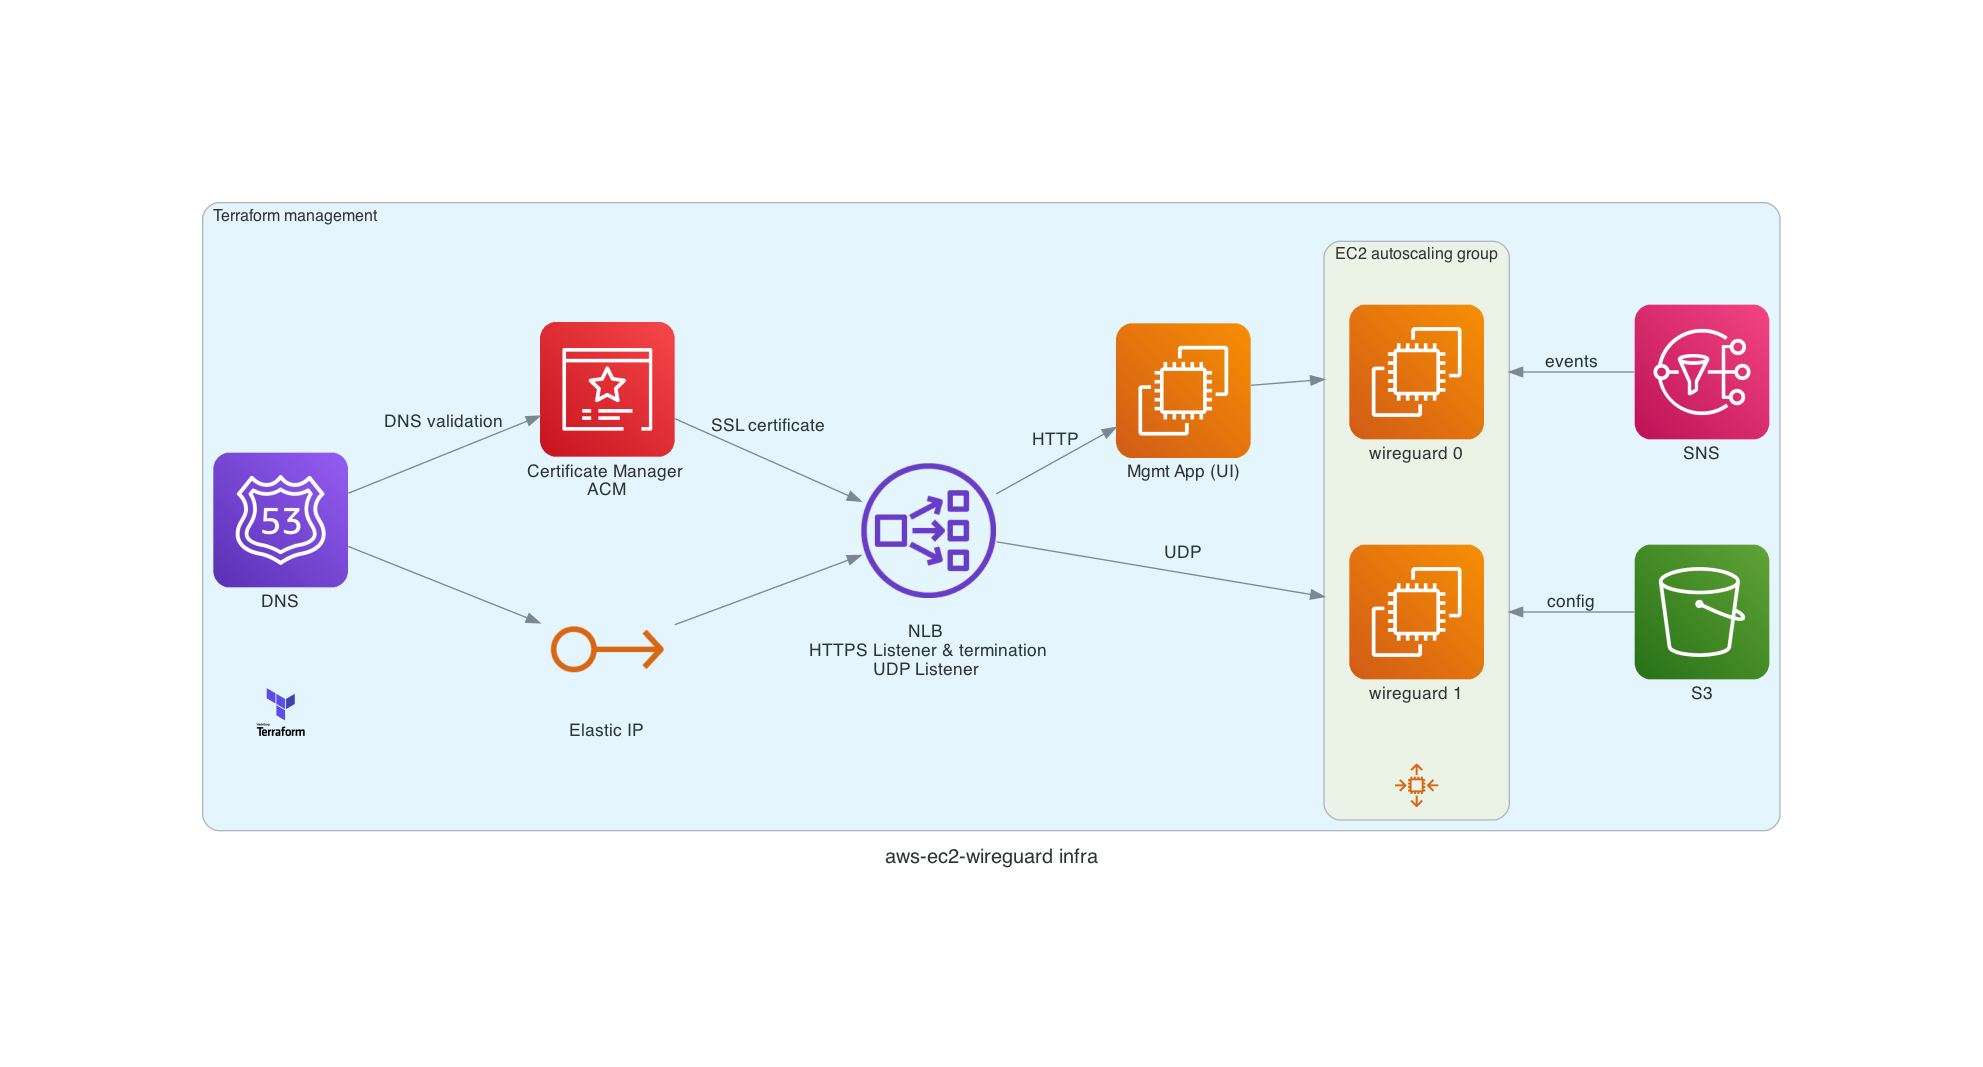
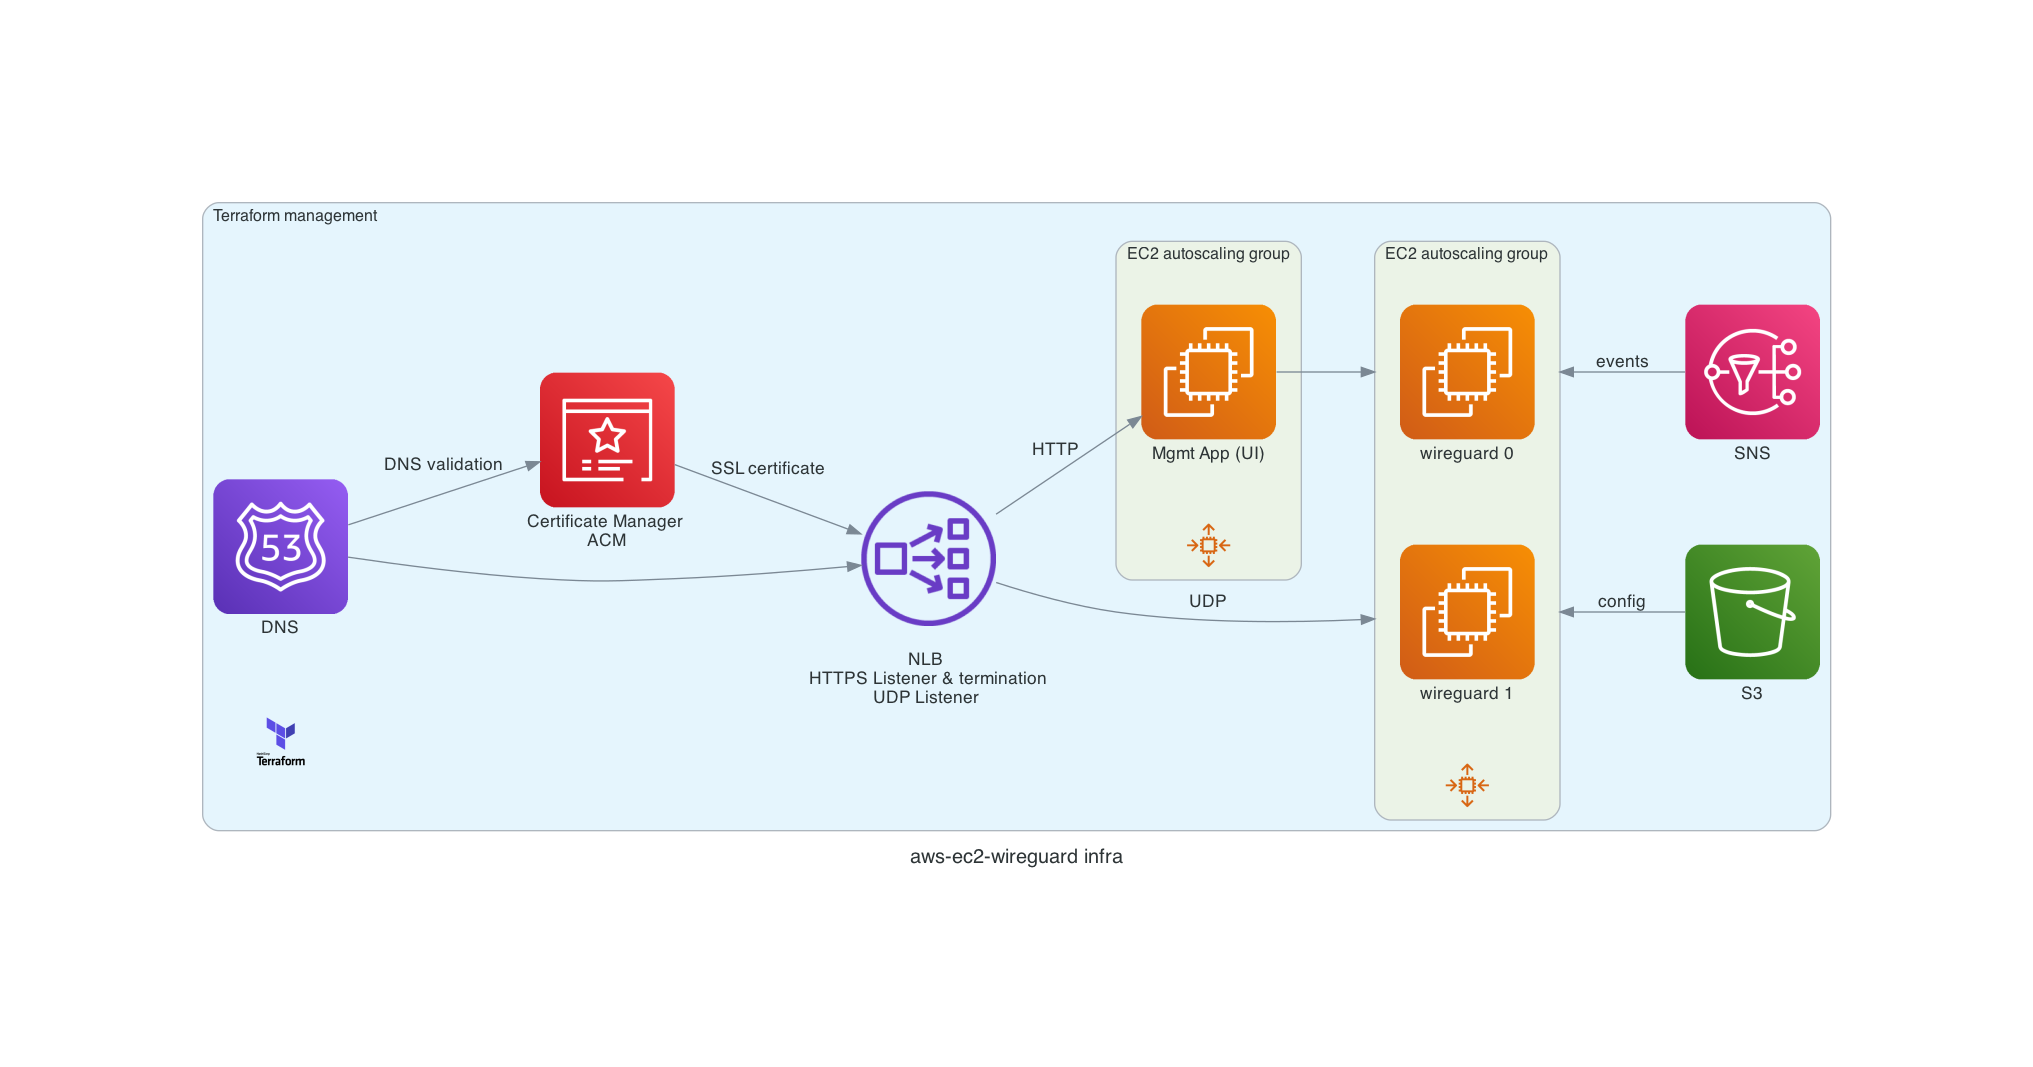
update sns and add sqs schema to compare

diff --git a/docs/arcitecture.py b/docs/arcitecture.py
@@ -5,11 +5,11 @@ from diagrams.aws.network import NLB, Route53
 from diagrams.onprem.iac import Terraform
 from diagrams.onprem.client import Users
 from diagrams.aws.storage import S3
-from diagrams.aws.integration import SNS, SimpleNotificationServiceSnsTopic
+from diagrams.aws.integration import SNS, SimpleNotificationServiceSnsTopic, SQS, SimpleQueueServiceSqsQueue
 from diagrams.programming.language import Python
 from diagrams.custom import Custom
 from diagrams.aws.security import ACM
-
+from diagrams.generic.blank import Blank
 
 graph_attr = {
     "layout":"dot",
@@ -25,23 +25,30 @@ with Diagram("aws-ec2-wireguard infra", show=False, direction="LR", graph_attr=g
 
 
         dns = Route53("DNS")
-        eip = EC2ElasticIpAddress("Elastic IP")
         nlb = NLB("NLB \nHTTPS Listener & termination\nUDP Listener \n")
         acm = ACM("Certificate Manager \nACM")
         config = S3("S3")
         sns = SNS("SNS")
-        front_app = EC2("Mgmt App (UI)")
+
+        with Cluster("ec2_as_web", graph_attr={"label":"EC2 autoscaling group"}):
+            ec2_autoscaling = EC2AutoScaling(
+                    label="", fontsize="8", loc="t",
+                    fixedsize="true", width="0.5", height="0.5", )
+
+            front_app = EC2("Mgmt App (UI)")
+
 
         with Cluster("ec2_as", graph_attr={"label":"EC2 autoscaling group"}):
             ec2_autoscaling = EC2AutoScaling(
                     label="", fontsize="8", loc="t",
                     fixedsize="true", width="0.5", height="0.5", )
+
             wg = [
                 EC2("wireguard 0"),
                 EC2("wireguard 1")
             ]
 
-        dns >> eip >> nlb >> Edge(label="UDP", lhead="cluster_ec2_as") >> wg[1]
+        dns >> nlb >> Edge(label="UDP", lhead="cluster_ec2_as") >> wg[1]
         dns >> Edge(label="DNS validation") >> acm >> Edge(label="SSL certificate") >> nlb
         nlb >> Edge(label="HTTP") >> front_app >> Edge(lhead="cluster_ec2_as") >> wg[0]
         wg[1] << Edge(label="config", ltail="cluster_ec2_as") << config
@@ -50,6 +57,7 @@ with Diagram("aws-ec2-wireguard infra", show=False, direction="LR", graph_attr=g
 
 with Diagram("aws-ec2-wireguard app", show=False, graph_attr=graph_attr):
     config = S3("S3")
+    update = SimpleNotificationServiceSnsTopic("SNS Topic")
 
     with Cluster("wg", graph_attr={"label":"Wireguard instance"}):
         ec2 = EC2(
@@ -57,6 +65,20 @@ with Diagram("aws-ec2-wireguard app", show=False, graph_attr=graph_attr):
                 fixedsize="true", width="0.5", height="0.5", )
         wireguard =  Custom("Wireguard", "./wireguard-icon.png")
         backend_app = Python("BackendApp")
+        
+    with Cluster("wg1", graph_attr={"label":"Wireguard instance 1"}):
+        ec2 = EC2(
+                label="", fontsize="8", loc="t",
+                fixedsize="true", width="0.5", height="0.5", )
+        wireguard_1 =  Custom("Wireguard", "./wireguard-icon.png")
+        backend_app_1 = Python("BackendApp")
+
+    # with Cluster("wgn", graph_attr={"label":"Wireguard instance n"}):
+    #     ec2 = EC2(
+    #             label="", fontsize="8", loc="t",
+    #             fixedsize="true", width="0.5", height="0.5", )
+    #     wireguard_n =  Custom("Wireguard", "./wireguard-icon.png")
+    #     backend_app_n = Python("BackendApp")
 
     with Cluster("ui", graph_attr={"label":"Mgmt App (UI)"}):
         ec2 = EC2(
@@ -64,7 +86,64 @@ with Diagram("aws-ec2-wireguard app", show=False, graph_attr=graph_attr):
                 fixedsize="true", width="0.5", height="0.5", )
         front_app = Python("FrontApp")
 
-    Users() >> Edge(lhead="cluster_ui") >> front_app >> Edge(ltail="cluster_ui", lhead="cluster_wg") >> backend_app >> Edge(label="1. update config") >> config
-    config >> Edge(label="2. fire event") >> SNS("SNS") \
-        >> Edge(label="3. get event") >> backend_app >> \
-            Edge(label="4. config update&reload") >> wireguard
+    Users() >> Edge(lhead="cluster_ui", color="darkgreen") >> front_app \
+        >> Edge(ltail="cluster_ui", lhead="cluster_wg", color="darkgreen") >> backend_app
+
+    backend_app >> Edge(label="1. update config", color="darkgreen") >> config \
+        >> Edge(label="2. fire event", color="darkgreen") >> SNS("SNS") \
+            >> Edge(label="3. pub \ncreate an event", color="darkgreen") >> update \
+                >> Edge(label="4. sub. \nget event", color="darkgreen") >> backend_app \
+                    >> Edge(label="6. config update&reload", color="darkgreen") >> wireguard
+    backend_app << Edge(label="5. read config", color="darkgreen") << config 
+
+
+    backend_app_1 << Edge(label="5. read config", color="darkorange") << config 
+    update >> Edge(label="4. sub. \nget event", color="darkorange") >> backend_app_1 \
+        >> Edge(label="6. config update&reload", color="darkorange") >> wireguard_1
+
+    # backend_app_n << Edge(label="6. read config") << config 
+    # update >> Edge(label="4. sub. \nget event") >> backend_app_n \
+    #     >> Edge(label="5. config update&reload") >> wireguard_n
+
+
+with Diagram("aws-ec2-wireguard app_sqs", show=False, graph_attr=graph_attr):
+    config = S3("S3")
+    app_q = SimpleQueueServiceSqsQueue("SQS queue instance")
+    app_1_q = SimpleQueueServiceSqsQueue("SQS queue instance 1")
+    sqs = SQS("SQS")
+
+    with Cluster("wg", graph_attr={"label":"Wireguard instance"}):
+        ec2 = EC2(
+                label="", fontsize="8", loc="t",
+                fixedsize="true", width="0.5", height="0.5", )
+        wireguard =  Custom("Wireguard", "./wireguard-icon.png")
+        backend_app = Python("BackendApp")
+        
+    with Cluster("wg1", graph_attr={"label":"Wireguard instance 1"}):
+        ec2 = EC2(
+                label="", fontsize="8", loc="t",
+                fixedsize="true", width="0.5", height="0.5", )
+        wireguard_1 =  Custom("Wireguard", "./wireguard-icon.png")
+        backend_app_1 = Python("BackendApp")
+
+    with Cluster("ui", graph_attr={"label":"Mgmt App (UI)"}):
+        ec2 = EC2(
+                label="", fontsize="8", loc="t",
+                fixedsize="true", width="0.5", height="0.5", )
+        front_app = Python("FrontApp")
+
+    Users() >> Edge(lhead="cluster_ui", color="darkgreen") >> front_app \
+        >> Edge(ltail="cluster_ui", lhead="cluster_wg", color="darkgreen") >> backend_app
+
+    backend_app >> Edge(label="1. update config", color="darkgreen") >> config \
+        >> Edge(label="2. fire event", color="darkgreen") >> sqs \
+            >> Edge(label="3. create an message", color="darkgreen") >> app_q \
+                >> Edge(label="4. read message", color="darkgreen") >> backend_app \
+                    >> Edge(label="6. config update&reload", color="darkgreen") >> wireguard
+    backend_app << Edge(label="5. read config", color="darkgreen") << config 
+
+
+    backend_app_1 << Edge(label="5. read config", color="darkorange") << config 
+    sqs >> Edge(label="3. create an message", color="darkorange") \
+        >> app_1_q >> Edge(label="4. read message", color="darkorange") >> backend_app_1 \
+            >> Edge(label="6. config update&reload", color="darkorange") >> wireguard_1

diff --git a/docs/README.md b/docs/README.md
@@ -20,4 +20,11 @@ Backend control Wireguard configuration and update it based on events from SNS
 
 Wireguard configuration stored in S3 storage
 
+With SNS:
+
 [![TF WIREGUARD SERVER](aws-ec2-wireguard_app.png)](aws-ec2-wireguard_app.png)
+
+
+With SQS:
+
+[![TF WIREGUARD SERVER](aws-ec2-wireguard_app_sqs.png)](aws-ec2-wireguard_app_sqs.png)
